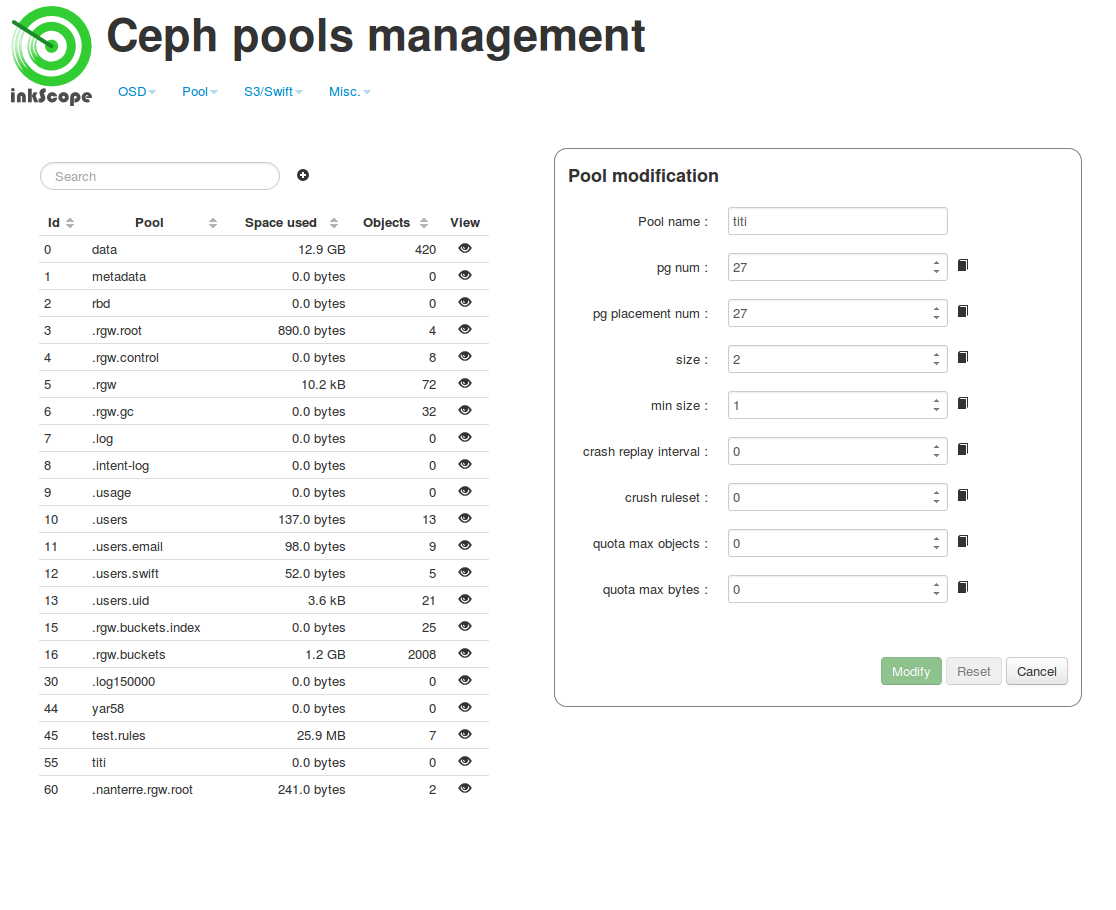
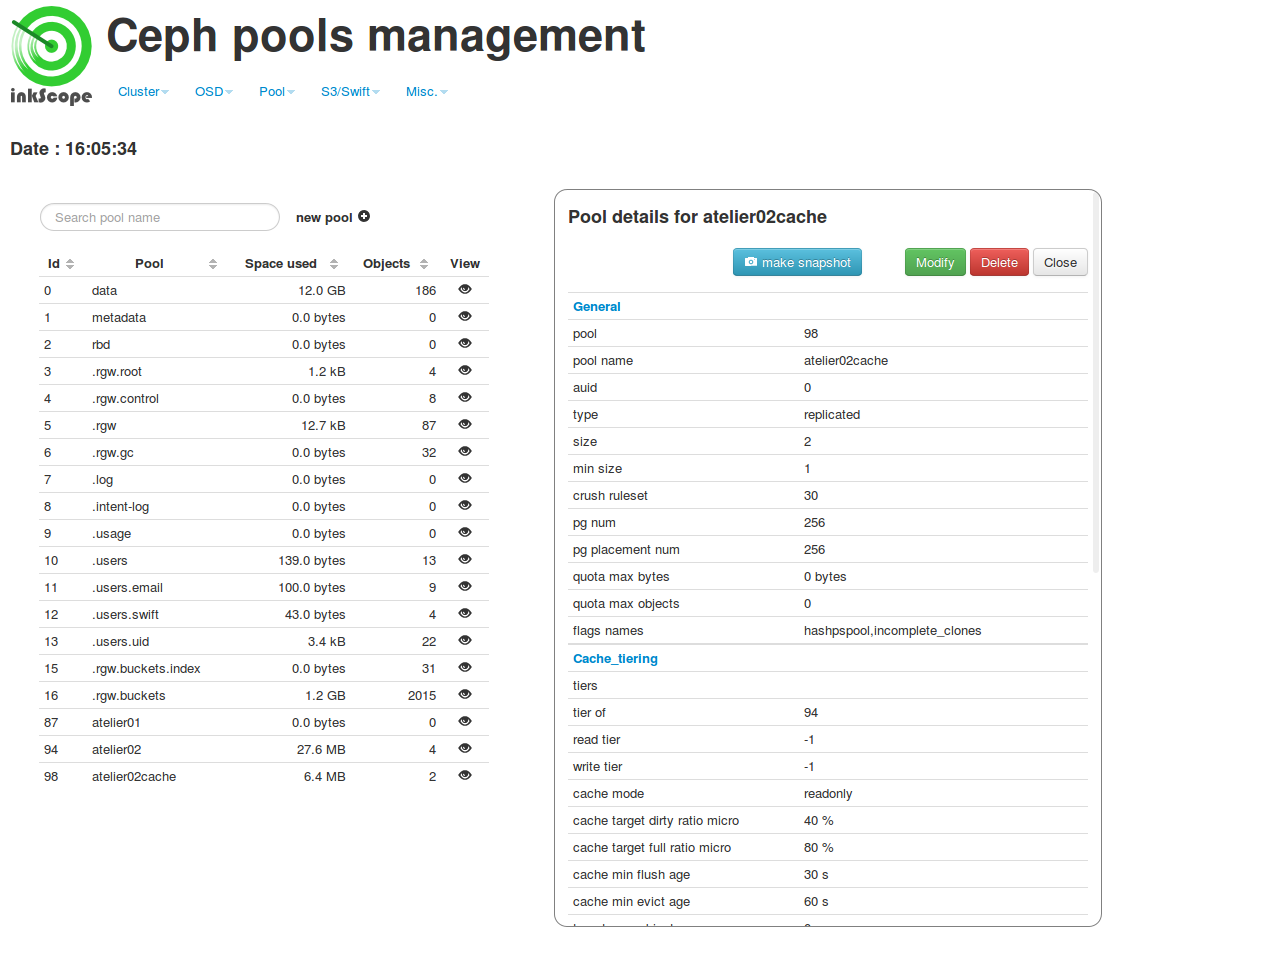
showing categorized pool parameters

diff --git a/inkscopeViz/partials/pools/detailPool.html b/inkscopeViz/partials/pools/detailPool.html
@@ -1,6 +1,5 @@
 <h3>Pool details for {{detailedPool.pool_name}}</h3>
-<br />
-
+<br>
 <div class="button-bar">
     <a href="#/snapshot/{{detailedPool.pool}}/{{detailedPool.pool_name}}" class="btn btn-info"><i class="icon-white icon-camera"></i> make snapshot </a>
     <button ng-click="removeSnapshot()" class="btn btn-danger" ng-show="hasSnap"><i class="icon-white icon-camera"></i> remove snapshot </button>
@@ -11,10 +10,31 @@
 </div>
 
 <br /><br />
-<table  class="table table-condensed table-nohead">
+<table ng-table="poolParams" class="table table-condensed table-hover clickable">
+    <thead><tr><th></th></tr></thead>
+    <tbody ng-repeat="group in $groups">
+    <tr class="ng-table-group">
+        <td colspan="{{$columns.length}}">
+            <a href="" ng-click="group.$hideRows = !group.$hideRows">
+                <span class="glyphicon" ng-class="{ 'glyphicon-chevron-right': group.$hideRows, 'glyphicon-chevron-down': !group.$hideRows }"></span>
+                <strong>{{ group.value }}</strong>
+            </a>
+        </td>
+    </tr>
+    <tr ng-hide="group.$hideRows" ng-repeat="parameter in group.data">
+        <td data-title="'Key'">
+            {{parameter.key}}
+        </td>
+        <td data-title="'Value'">
+            <span ng-bind-html="parameter.value"></span>
+        </td>
+    </tr>
+    </tbody>
+</table>
+<!--table  class="table table-condensed table-nohead">
     <tbody>
     <tr ng-repeat="(key, value) in detailedPool">
         <td width="150px"> {{key.replace('_',' ', 'gi')}} </td> <td> {{ value }} </td>
     </tr>
     </tbody>
-</table>
+</table-->

diff --git a/inkscopeViz/poolManagement.html b/inkscopeViz/poolManagement.html
@@ -24,7 +24,7 @@
     <script>
         function resize(){
         var header = document.querySelector("#header");
-        var height = window.innerHeight-200;
+        var height = window.innerHeight-250;
         var control = document.querySelector("#control");
         control.style.maxHeight = height+"px";
         }
@@ -36,7 +36,9 @@
 
 <div>
 <!--div id="status"  >{{status}}</div-->
-<div id="listpool">
+    <div id="datePanel"><br>Date : {{date | date:'HH:mm:ss'}}</div>
+
+    <div id="listpool">
     <table>
         <tr>
             <th><input type="text" ng-model="search.name" class="search-query" placeholder="Search pool name"></th>
